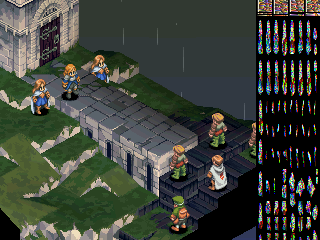
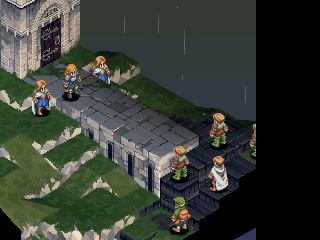
confirm the FFT gameplay RGB line is the GP1(06) fix; refresh battle shot
The thin vertical RGB line over FFT maps was the same horizontal display-range
issue, not a separate artifact: FFT battles use a 256-wide range in a 320 mode,
so the old present leaked 64 columns of stale texture VRAM down the right edge.
The GP1(06) fix blacks that border. Re-captured the tutorial-battle screenshot
with the fix in place.

diff --git a/TODO.md b/TODO.md
@@ -59,9 +59,11 @@ thread, and a gdbserver). The remaining blockers, in priority order:
   mode size, and both present and the headless dump use them. Chrono Trigger sets
   the horizontal range to exactly the mode width, so the visible horizontal change
   was only in the headless dump (it had hardcoded 320 columns). The "thin vertical
-  RGB line over FFT maps" is likely a separate artifact and still needs its own
-  diagnosis (FFT's title uses a full-width range; its gameplay range is
-  unconfirmed).
+  RGB line over FFT maps" turned out to be the same GP1(06) issue and is fixed too:
+  FFT's title uses a full-width (320) range, but its gameplay maps and battles use
+  a 256-wide range, so the old code presented 64 columns of stale texture VRAM down
+  the right edge. Honoring the horizontal range blacks that border (verified on the
+  Orbonne cutscene map and the tutorial battle).
 - [ ] **P1: timer/IRQ accuracy** sufficient for the sync/target modes games gate
   on (root counters exist; confirm against the first-game stall).
 
